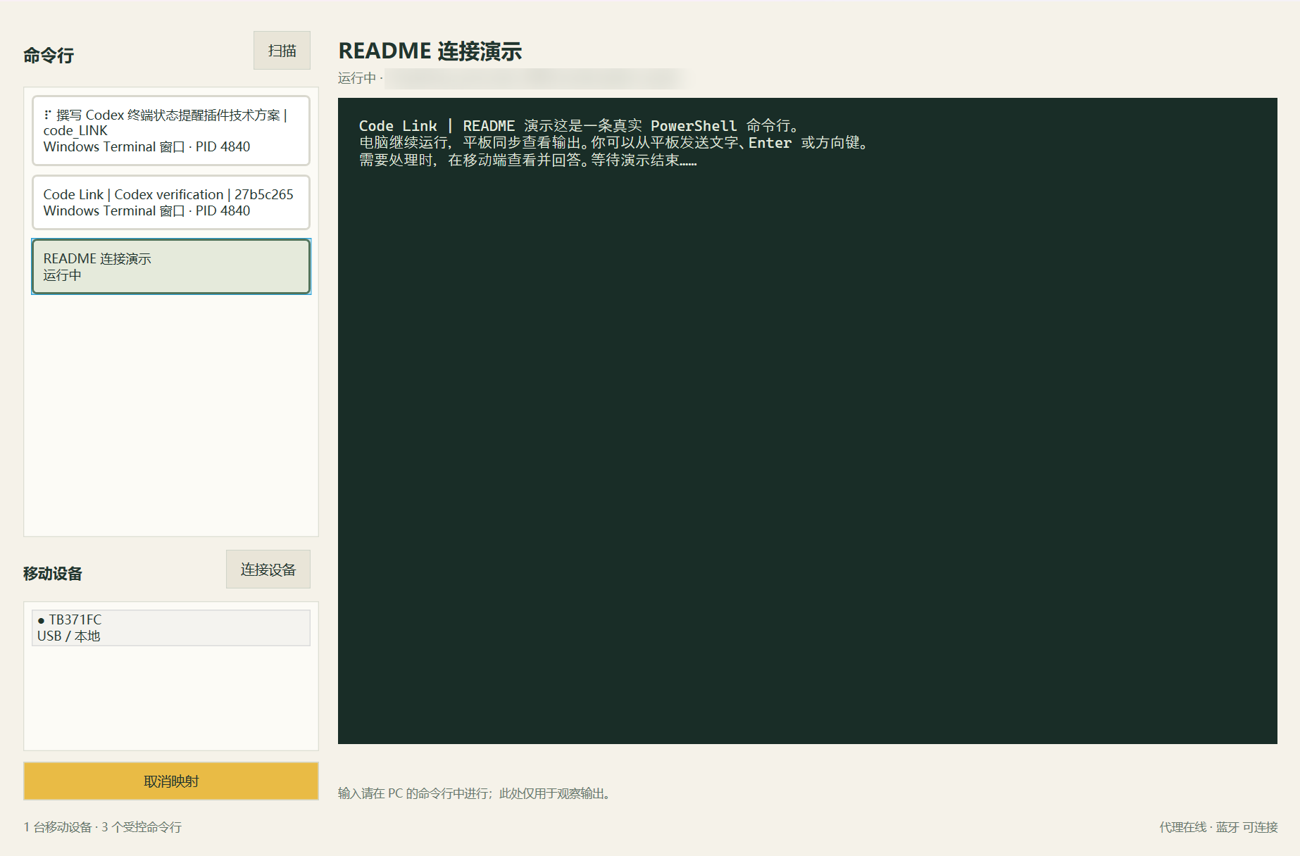
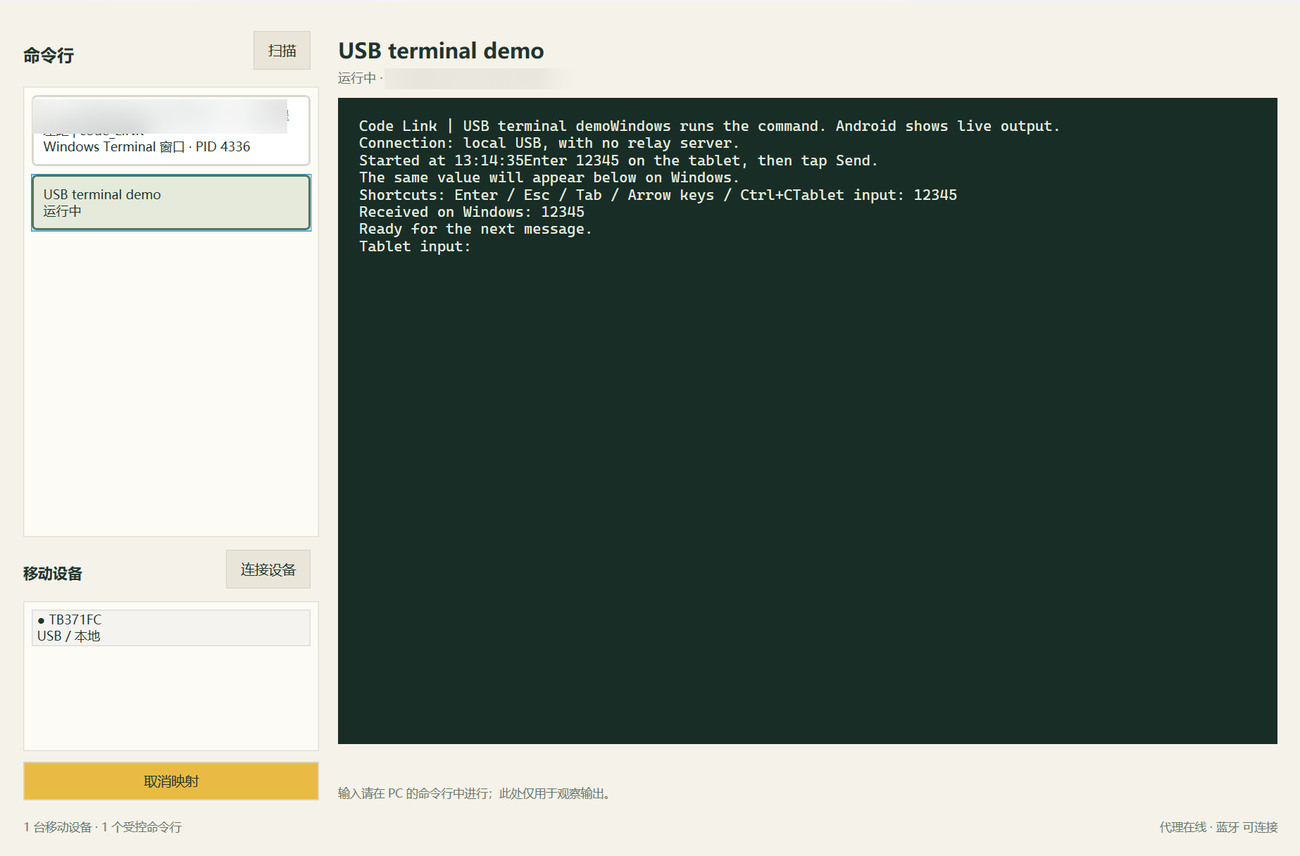
Refresh real-device screenshots and social preview assets

Changed region(s): [[0.2769, 0.1215, 0.8, 0.3037], [0.0, 0.1215, 0.2462, 0.3645], [0.2462, 0.0304, 0.4308, 0.0911]]

diff --git a/site/en.html b/site/en.html
@@ -22,14 +22,14 @@
   <meta property="og:title" content="Code Link | Your Windows terminal, within reach on Android">
   <meta property="og:description" content="Local USB and Bluetooth connections, terminal input, Codex approvals and A/B completion notifications.">
   <meta property="og:url" content="https://zaradee.github.io/code_LINK/en.html">
-  <meta property="og:image" content="https://zaradee.github.io/code_LINK/assets/overview.png">
-  <meta property="og:image:width" content="1800">
-  <meta property="og:image:height" content="820">
+  <meta property="og:image" content="https://zaradee.github.io/code_LINK/assets/social-preview.png">
+  <meta property="og:image:width" content="1280">
+  <meta property="og:image:height" content="640">
   <meta property="og:image:alt" content="Code Link running on Windows and an Android tablet">
   <meta name="twitter:card" content="summary_large_image">
   <meta name="twitter:title" content="Code Link | Local terminal companion">
   <meta name="twitter:description" content="Monitor Windows terminals and respond from Android over local USB or Bluetooth.">
-  <meta name="twitter:image" content="https://zaradee.github.io/code_LINK/assets/overview.png">
+  <meta name="twitter:image" content="https://zaradee.github.io/code_LINK/assets/social-preview.png">
   <script type="application/ld+json">
   {
     "@context": "https://schema.org",
@@ -70,6 +70,10 @@
       <article><span class="number">01 / OUTPUT AND INPUT</span><h2>Your terminal can stay minimized</h2><p>Choose an existing Windows terminal on the tablet. Send text, Enter, arrow keys or Ctrl+C back to that terminal.</p></article>
       <article><span class="number">02 / A AND B REMINDERS</span><h2>One task, or the whole batch</h2><p>A alerts when each task finishes. B waits for every participating task to complete successfully. Approval requests alert immediately in both groups.</p></article>
       <article><span class="number">03 / BACKGROUND NOTIFICATIONS</span><h2>Switch apps and stay informed</h2><p>An Android foreground service receives updates while you use other apps. Completion notifications open the relevant task.</p></article>
+    </section>
+    <section class="wrap details" aria-labelledby="screenshots">
+      <h2 id="screenshots">Read output and send input from your tablet</h2>
+      <figure><a href="assets/android.png"><img src="assets/android.png" width="1600" height="880" alt="Actual tablet screenshot from November 14, 2026 showing USB connected and Windows receiving the value 12345 sent from Android" loading="lazy"></a><figcaption>Actual USB connection and input. Open the image at full size. Local paths, computer names and private window titles are blurred.</figcaption></figure>
     </section>
     <section class="wrap split" id="start">
       <div><p class="eyebrow">START WITH USB</p><h2>Connect with a data cable.</h2><p>You need Windows x64 with .NET 10 Desktop Runtime, and Android 9 or later. Landscape tablets are the primary layout.</p><a class="text-link" href="https://dotnet.microsoft.com/en-us/download/dotnet/10.0">Get .NET 10 Desktop Runtime →</a></div>

diff --git a/site/index.html b/site/index.html
@@ -22,14 +22,14 @@
   <meta property="og:title" content="Code Link — 电脑跑任务，平板看进度与授权">
   <meta property="og:description" content="Windows + Android 的本地终端伴随工具。USB、蓝牙连接，支持移动输入、A/B 分组与后台完成横幅。">
   <meta property="og:url" content="https://zaradee.github.io/code_LINK/">
-  <meta property="og:image" content="https://zaradee.github.io/code_LINK/assets/overview.png">
-  <meta property="og:image:width" content="1800">
-  <meta property="og:image:height" content="820">
+  <meta property="og:image" content="https://zaradee.github.io/code_LINK/assets/social-preview.png">
+  <meta property="og:image:width" content="1280">
+  <meta property="og:image:height" content="640">
   <meta property="og:image:alt" content="Code Link 真实 Windows 桌面面板和 Android 平板界面">
   <meta name="twitter:card" content="summary_large_image">
   <meta name="twitter:title" content="Code Link — Local terminal companion">
   <meta name="twitter:description" content="Monitor Windows terminals and respond from Android over local USB or Bluetooth.">
-  <meta name="twitter:image" content="https://zaradee.github.io/code_LINK/assets/overview.png">
+  <meta name="twitter:image" content="https://zaradee.github.io/code_LINK/assets/social-preview.png">
   <script type="application/ld+json">
   {
     "@context": "https://schema.org",
@@ -71,6 +71,10 @@
       <article><span class="number">01 / 观测与输入</span><h2>终端收起，进度还在</h2><p>扫描电脑上现有的命令行，在平板选择窗口。文字、Enter、方向键和 Ctrl+C 都能回到对应终端。</p></article>
       <article><span class="number">02 / 分组提醒</span><h2>按你的节奏提醒</h2><p>A 组每个任务完成就提醒。B 组等本轮运行过的任务全部完成。需要授权或回答时，两组都立即提示。</p></article>
       <article><span class="number">03 / 后台通知</span><h2>切到其他 App，也能收到</h2><p>Android 前台服务维持连接，后台继续接收状态。任务完成时显示系统横幅，点开即可回到对应任务。</p></article>
+    </section>
+    <section class="wrap details" aria-labelledby="screenshots">
+      <h2 id="screenshots">在平板上查看，并把输入送回电脑</h2>
+      <figure><a href="assets/android.png"><img src="assets/android.png" width="1600" height="880" alt="2026 年 11 月 14 日平板真机截图，USB 已连接，输入 12345 后收到 Windows 回显" loading="lazy"></a><figcaption>实际 USB 连接与输入演示。点击图片查看大图；本机路径、电脑名和私人窗口标题已模糊。</figcaption></figure>
     </section>
     <section class="wrap split" id="start">
       <div><p class="eyebrow">START WITH USB</p><h2>一根数据线，开始连接。</h2><p>Windows x64 需要 .NET 10 Desktop Runtime。Android 最低版本为 9，当前优先适配横屏平板。</p><a class="text-link" href="https://dotnet.microsoft.com/en-us/download/dotnet/10.0">获取 .NET 10 Desktop Runtime →</a></div>

diff --git a/CODE_OF_CONDUCT.md b/CODE_OF_CONDUCT.md
@@ -1,0 +1,18 @@
+# Code Link community guidelines
+
+We welcome users and contributors with different experience levels and backgrounds. Keep discussions useful to the people building and using Code Link.
+
+- Discuss the behavior, code or proposal. Explain disagreements with evidence and a suggested next step.
+- Be respectful. Harassment, threats, discriminatory remarks and personal attacks are not acceptable.
+- Protect privacy. Do not publish another person's personal information, credentials, pairing details or private terminal output.
+- Keep issues and pull requests relevant. Avoid spam, misleading claims and repeated promotional posts.
+
+These guidelines apply to this repository's issues, pull requests and other project spaces moderated by the maintainer. You can report abusive content privately through GitHub's **Report content** menu on the relevant post. Security vulnerabilities use the private reporting channel in [SECURITY.md](SECURITY.md).
+
+The maintainer may clarify expectations, edit or remove inappropriate content, close disruptive threads, or restrict participation. Responses depend on the conduct and its impact. Reports and enforcement should respect the privacy of those involved.
+
+## 中文
+
+欢迎不同经验和背景的使用者与贡献者。讨论具体问题和代码，用依据说明分歧，尊重他人。请勿骚扰、威胁、人身攻击或发布歧视性言论，不公开他人的个人信息、凭据、配对信息或私人终端内容，也不发送垃圾信息。
+
+这些规则适用于仓库的问题、PR 及维护者管理的项目空间。违规内容可通过 GitHub 帖子的 **Report content** 私下举报；安全漏洞使用 [SECURITY.md](SECURITY.md) 中的渠道。维护者可视情况说明规则、移除内容、关闭讨论或限制参与，并保护相关人员隐私。

diff --git a/README.en.md b/README.en.md
@@ -86,11 +86,11 @@ The `codex` command requires a locally installed Codex CLI. `terminal` defaults 
 ## Help and development
 
 - [Report a problem](https://github.com/ZARADEE/code_LINK/issues/new/choose) with your OS, app version, transport, terminal type, and reproduction steps.
-- [Build from source](docs/BUILDING.md) · [Contribute](CONTRIBUTING.md) · [Security](SECURITY.md) · [Changelog](CHANGELOG.md)
+- [Build from source](docs/BUILDING.md) · [Contribute](CONTRIBUTING.md) · [Community guidelines](CODE_OF_CONDUCT.md) · [Security](SECURITY.md) · [Changelog](CHANGELOG.md)
 - [Chinese usage guide and troubleshooting](README.md) · [Validation record](research/pad-background-acceptance.json)
 
 Windows and Android are the current targets. iPad/iOS, macOS/Linux desktop, and WSL are not validated targets.
 
 Code is licensed under [MIT](LICENSE). Supplied artwork has [separate terms](assets/README.md); dependencies retain their [original licenses](THIRD_PARTY_NOTICES.md). Maintained by [ZARADEE](https://github.com/ZARADEE), independently of terminal and AI vendors.
 
-Screenshots show the real application, with local paths and computer names blurred. Documentation corresponds to Android 1.2.0.
+Windows and Android screenshots were captured on connected devices on November 14, 2026; notification banners come from earlier hardware validation. Local paths, computer names and private window titles are blurred. [Image provenance](docs/assets/README.md). Documentation corresponds to Android 1.2.0.

diff --git a/README.md b/README.md
@@ -238,10 +238,10 @@ B 组在全部完成时才同时标红标签和本轮成员。逐个点击查看
 
 遇到问题请[提交 Issue](https://github.com/ZARADEE/code_LINK/issues/new/choose)，附上两端系统版本、App 版本、连接方式、终端类型和复现步骤。截图前遮住配对二维码、密钥和私人终端内容。
 
-- [贡献指南](CONTRIBUTING.md) · [安全问题](SECURITY.md) · [版本记录](CHANGELOG.md)
+- [贡献指南](CONTRIBUTING.md) · [社区规范](CODE_OF_CONDUCT.md) · [安全问题](SECURITY.md) · [版本记录](CHANGELOG.md)
 - [从源码构建](docs/BUILDING.md) · [当前实现](docs/implementation.zh-CN.md) · [开发记录](docs/development-status.md) · [初始技术方案](docs/technical-proposal.zh-CN.md)
 - 项目代码采用 [MIT 许可证](LICENSE)。图片、动画和第三方组件的授权范围见 [素材说明](assets/README.md)与[第三方声明](THIRD_PARTY_NOTICES.md)。
 
 维护者为 [ZARADEE](https://github.com/ZARADEE)。本项目为独立开发的终端伴随工具。
 
-*文中应用界面来自真实运行截图，规则图为说明示意；本机路径、设备名已做模糊处理。README 对应 Android 1.2.0。*
+*Windows 与平板主界面于 2026-11-14 实际连接后拍摄，通知来自既有真机记录；规则图为说明示意。本机路径、设备名和私人窗口标题已模糊。[图片来源](docs/assets/README.md)。README 对应 Android 1.2.0。*

diff --git a/docs/assets/README.md b/docs/assets/README.md
@@ -1,0 +1,14 @@
+# 展示图片来源
+
+| 文件 | 内容与来源 |
+| --- | --- |
+| `desktop.png` | 2026-11-14 Windows 当前版本窗口截图，显示专用 PowerShell 演示终端 |
+| `android.png` | 2026-11-14 联想小新 Pad Pro 12.7 实拍屏幕，USB 已连接；从平板发送 12345，终端回显已收到 |
+| `background-settings.png` | 同日平板的后台与通知设置截图；系统勿扰当时处于开启状态 |
+| `overview.png` | 将上述真实 Windows 与 Android 截图排版，添加说明文字 |
+| `social-preview.png` | 使用上述真实界面制作的网页分享图，尺寸 1280 × 640 |
+| `notifications.png` | 2026-11-13 真机后台验收中的 A/B 通知横幅，依据 [验收记录](../../research/pad-background-acceptance.json) |
+| `reminder-modes.png` | A/B 完成提醒规则示意图 |
+| `logo.png` | 由维护者提供的原始素材生成，许可范围见 [素材说明](../../assets/README.md) |
+
+截图仅裁掉系统边栏并模糊本机路径、设备名和私人窗口标题。终端正文与连接状态保留实际画面。原始截图留在本机，公开仓库只保存处理后的版本。
